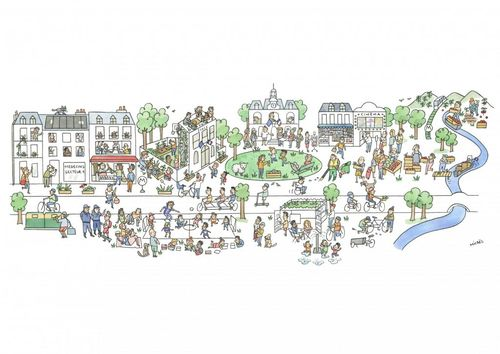
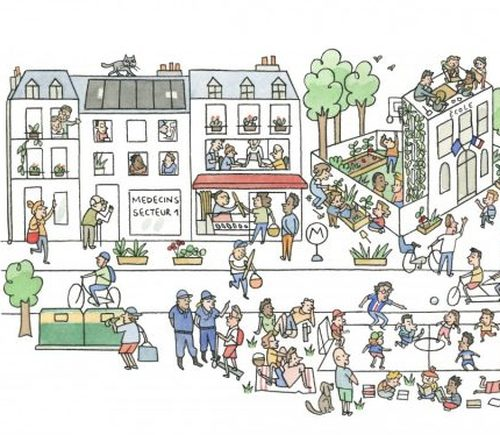
Verwijzingen naar eerdere snelstudies op de kanspagina's
Onderaan elke kanspagina, onder de inhoud en boven de terug-link, staan nu
blauwe balkjes "Lees meer in de snelstudie ..." met beeld links en de titel
ernaast. Zelfde formaat als de compacte lijst onderaan de kansenpagina, maar
op het lichtblauwe vlak zodat het aansluit bij de andere blauwe blokken.

- kans 1: De kracht van nabijheid; De ideale woonwijk, nabij voorzieningen en OV
- kans 2: Ga gewoon fietsen; Wisselfiets; Mensen nemen vaker trein bij
  verbeterd deelfietsaanbod
- kans 3: Sneller reizen met de bus in Zuid-Holland
- kans 4: Kansen voor deelfiets en deelscooter in Zuid-Holland
- gedrag: Hoe verleiden we reizigers om slimmer te reizen?

Nieuw include _includes/leesmeer.html, zodat de opmaak op één plek staat;
de verwijzingen zelf staan in SNELSTUDIES in kansen-werk/subpaginas.py
(kans 1 staat in de pagina zelf, die wordt niet meer gegenereerd).
Beelden zijn de bestaande verkleinde versies uit kansen/img/eerdere/.

Ook: de kaartjes van kans 1 tonen nu een uitsnede van de tekening zonder de
witte randen, zodat ze het vakje vullen.

Claude-Session: https://claude.ai/code/session_01UCc3ptNHq27ukcHFw7UX32

diff --git a/css/style.css b/css/style.css
@@ -339,6 +339,38 @@ blockquote{
   .uitspraak { font-size: 22px; line-height: 30px; }
 }
 
+/* Verwijzing naar een eerdere snelstudie: hetzelfde formaat als de compacte
+   lijst onderaan de kansenpagina, maar op het lichtblauwe vlak zodat het
+   aansluit bij de andere blauwe blokken. */
+.leesmeer {
+  display: block;
+  margin: 20px 0;
+}
+.leesmeer .item {
+  background-color: var(--pzh-lichtblauw-vlak);
+  border: 0;
+  border-radius: 0;
+  box-shadow: none;
+  align-items: center;
+}
+.leesmeer .item-left {
+  max-width: 17%;
+  min-width: 90px;
+}
+.leesmeer .leesmeer-kop {
+  font-size: 18px;
+  line-height: 26px;
+  margin: 0 0 4px;
+}
+.leesmeer .item-right h2 {
+  font-size: 22px;
+  line-height: 30px;
+  margin: 0;
+}
+.leesmeer:hover .item {
+  box-shadow: 0 4px 12px rgba(0,0,0,0.1);
+}
+
 /* Tekstblok = kaart-look (zelfde rand/schaduw als .item in flex.css),
    zodat blokken met én zonder afbeelding er hetzelfde uitzien.
    Standaardkleur geel; overschrijf met een achtergrond*-klasse. */

diff --git a/_includes/leesmeer.html b/_includes/leesmeer.html
@@ -1,0 +1,15 @@
+{%- comment -%}
+Verwijzing naar een eerdere snelstudie: compact blauw balkje.
+Gebruik: {% include leesmeer.html title="..." url="..." image="..." %}
+{%- endcomment -%}
+<a href="{{ include.url }}" class="item-link leesmeer">
+  <div class="item">
+    <div class="item-left">
+      <img src="{{ include.image }}" alt="{{ include.title }}" loading="lazy">
+    </div>
+    <div class="item-right">
+      <p class="leesmeer-kop">Lees meer in de snelstudie</p>
+      <h2>{{ include.title }}</h2>
+    </div>
+  </div>
+</a>

diff --git a/kansen/actief.md b/kansen/actief.md
@@ -120,4 +120,10 @@ Vergroenen van de openbare ruimte maakt lopen en fietsen aantrekkelijker. Steden
 
 Hoe je gedrag verandert (van auto naar lopen, fietsen en OV) staat beschreven in 'Promoting Mobility Behaviour Change' van Walk 21
 
+{% include leesmeer.html title="Zuid-Holland, Ga gewoon fietsen (2025)" url="https://provincie-zuid-holland.github.io/mobiliteit/snelstudie/fiets.html" image="/mobiliteit/kansen/img/eerdere/ga-gewoon-fietsen.jpg" %}
+
+{% include leesmeer.html title="Wisselfiets" url="https://provincie-zuid-holland.github.io/mobiliteit/snelstudie/wisselfiets.html" image="/mobiliteit/kansen/img/eerdere/wisselfiets.jpg" %}
+
+{% include leesmeer.html title="Mensen nemen vaker trein bij verbeterd deelfietsaanbod (2025)" url="https://provincie-zuid-holland.github.io/mobiliteit/snelstudie/treinfietscombi.html" image="/mobiliteit/kansen/img/eerdere/trein-deelfiets.jpg" %}
+
 <p class="terug"><a href="/mobiliteit/kansen/index.html">← terug naar de negen kansen</a></p>

diff --git a/kansen/ov.md b/kansen/ov.md
@@ -110,4 +110,6 @@ Publieke mobiliteit is een combinatie van OV (aangestuurd door de provincie), ta
 
 Bedenk dat publieke mobiliteit nog in de kinderschoenen staat en meer inspanning, kennis, regie en samenwerking (met gemeenten/regio's en marktpartijen) vraagt van de provincie. Laat het niet ten koste gaan van bus en trein, want die zijn voor iedereen te gebruiken tegen relatief lage tarieven en zonder app (niet iedereen kan een deelfiets gebruiken of mag een deelauto besturen).
 
+{% include leesmeer.html title="Sneller reizen met de bus in Zuid-Holland" url="https://www.zuid-holland.nl/actueel/kennis-zuid-holland/onderzoeken-1/overzicht-onderzoeken/snelstudie-sneller-reizen-bus-zuid-holland/" image="/mobiliteit/kansen/img/eerdere/sneller-met-de-bus.jpg" %}
+
 <p class="terug"><a href="/mobiliteit/kansen/index.html">← terug naar de negen kansen</a></p>

diff --git a/kansen/nabijheid.md b/kansen/nabijheid.md
@@ -49,4 +49,8 @@ Meer informatie [kenniszuidholland@pzh.nl](mailto:kenniszuidholland@pzh.nl) en [
 
 </div>
 
+{% include leesmeer.html title="De kracht van nabijheid (2025)" url="https://provincie-zuid-holland.github.io/mobiliteit/snelstudie/nabijheid.html" image="/mobiliteit/kansen/img/eerdere/nabijheid.jpg" %}
+
+{% include leesmeer.html title="De ideale woonwijk, nabij voorzieningen en OV" url="https://www.zuid-holland.nl/actueel/kennis-zuid-holland/onderzoeken-1/overzicht-onderzoeken/snelstudie-ideale-woonwijk-nabij-voorzieningen-ov/" image="/mobiliteit/kansen/img/eerdere/ideale-woonwijk.jpg" %}
+
 <p class="terug"><a href="/mobiliteit/kansen/index.html">← terug naar de negen kansen</a></p>

diff --git a/kansen/deelvervoer.md b/kansen/deelvervoer.md
@@ -121,4 +121,6 @@ Carpoolen (meerijden met iemand anders) is nooit populair geworden. Toch liggen 
 
 </div>
 
+{% include leesmeer.html title="Kansen voor deelfiets en deelscooter in Zuid-Holland" url="https://www.zuid-holland.nl/actueel/kennis-zuid-holland/onderzoeken-1/overzicht-onderzoeken/snelstudie-kansen-deelfiets-deelscooter-zuid/" image="/mobiliteit/kansen/img/eerdere/deelfiets-deelscooter.jpg" %}
+
 <p class="terug"><a href="/mobiliteit/kansen/index.html">← terug naar de negen kansen</a></p>

diff --git a/kansen/gedrag.md b/kansen/gedrag.md
@@ -79,4 +79,6 @@ Zeker na corona, waarin reizigers deels wegbleven, verdient het OV een nieuwe im
 
 </div>
 
+{% include leesmeer.html title="Hoe verleiden we reizigers om slimmer (dan met een auto) te reizen?" url="https://www.zuid-holland.nl/publish/pages/27681/hoeverleidenwereizigersomslimmertereizen.pdf" image="/mobiliteit/kansen/img/eerdere/slimmer-reizen.jpg" %}
+
 <p class="terug"><a href="/mobiliteit/kansen/index.html">← terug naar de negen kansen</a></p>
